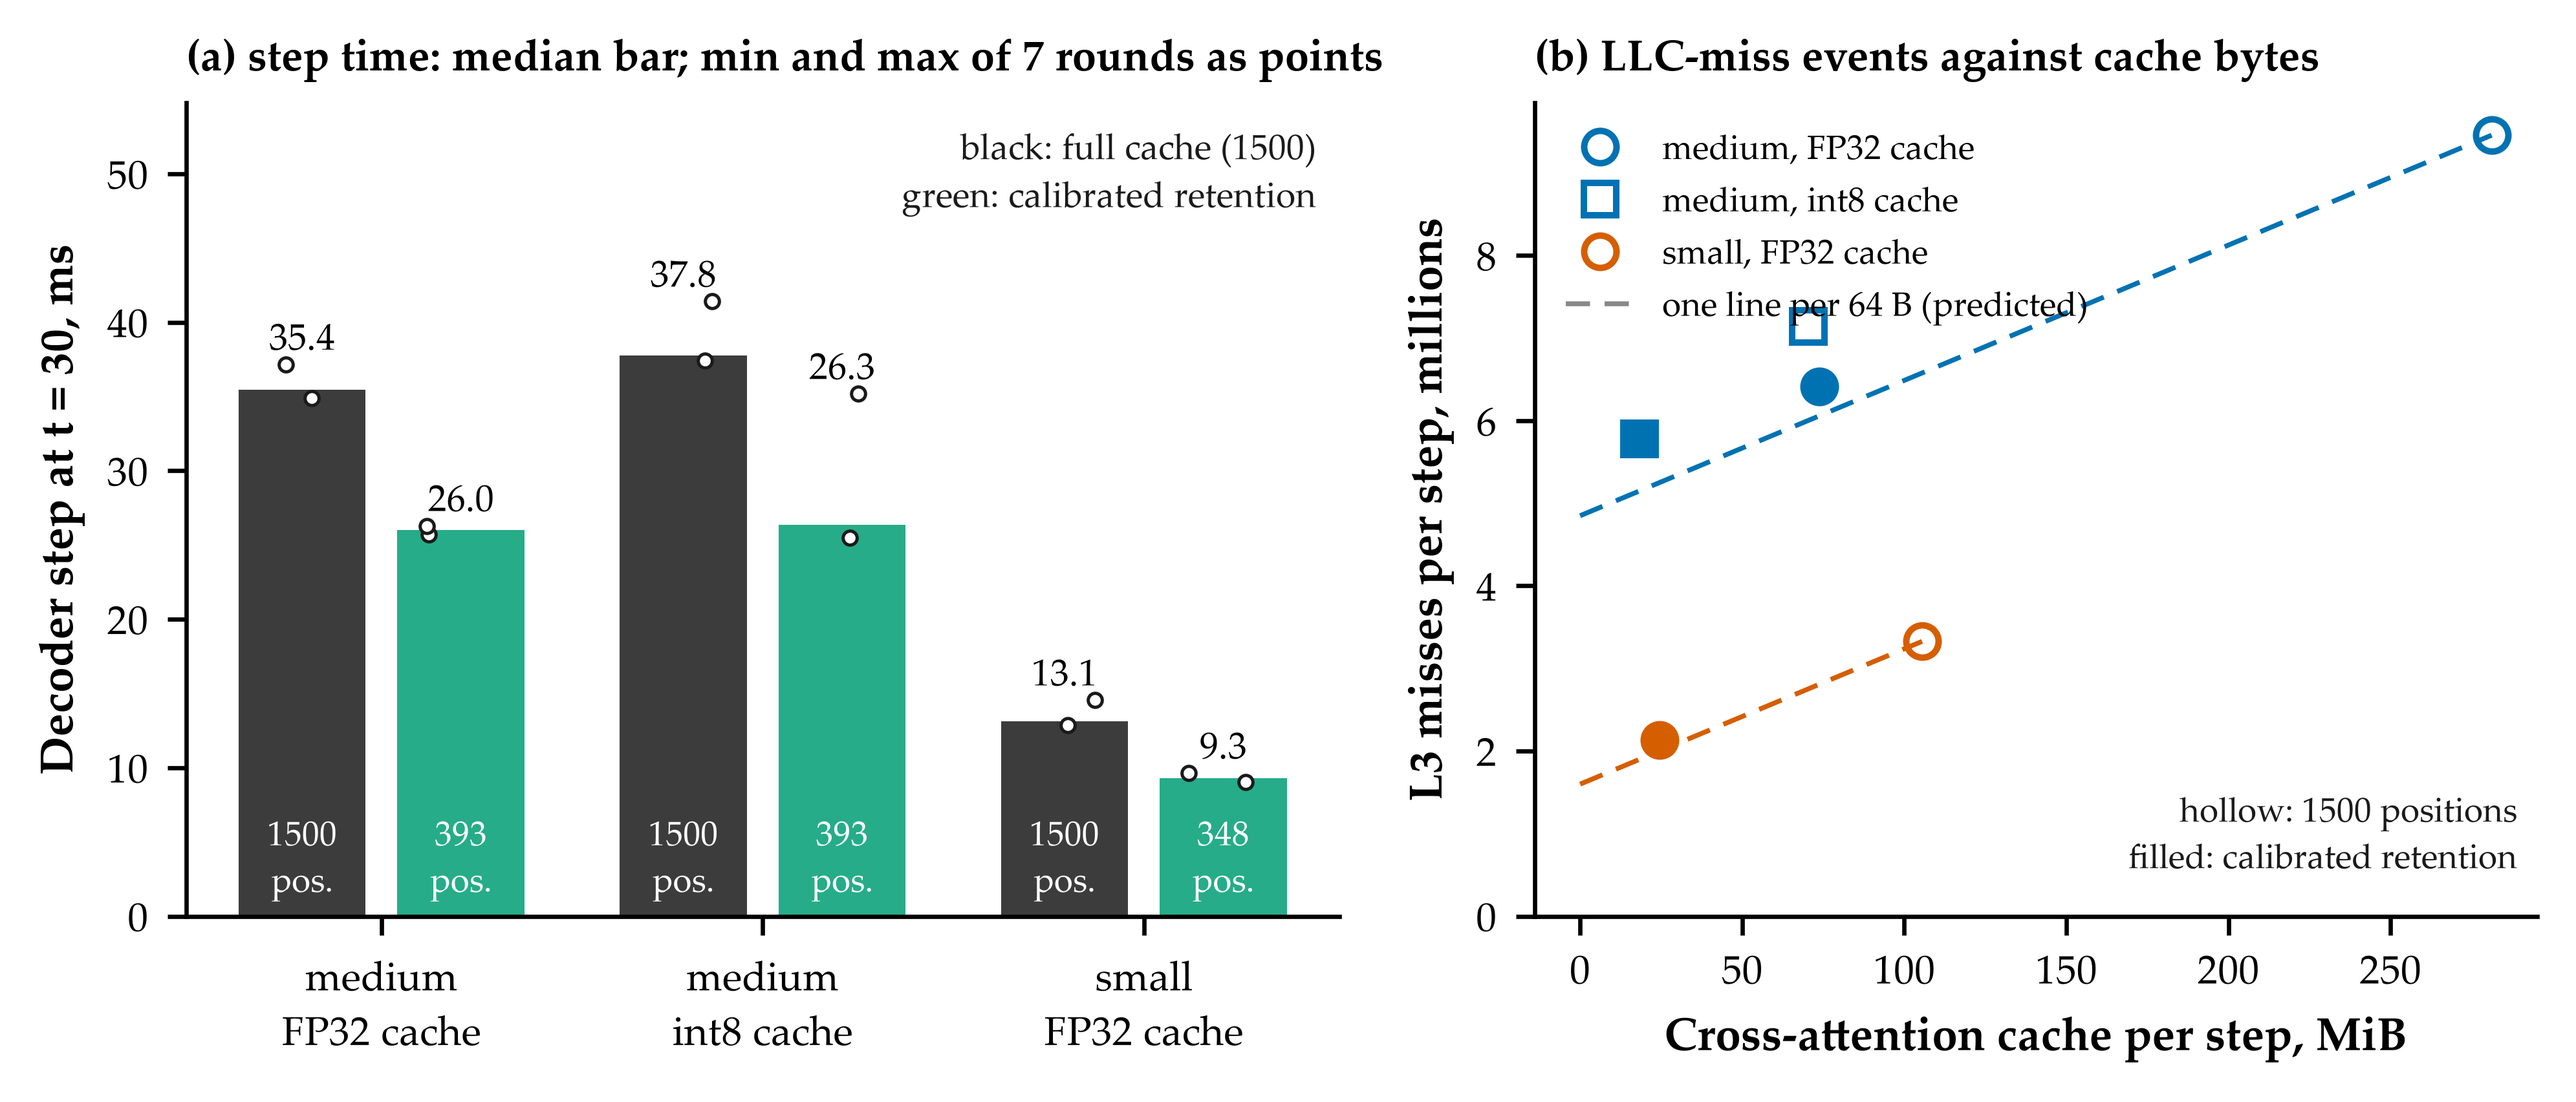
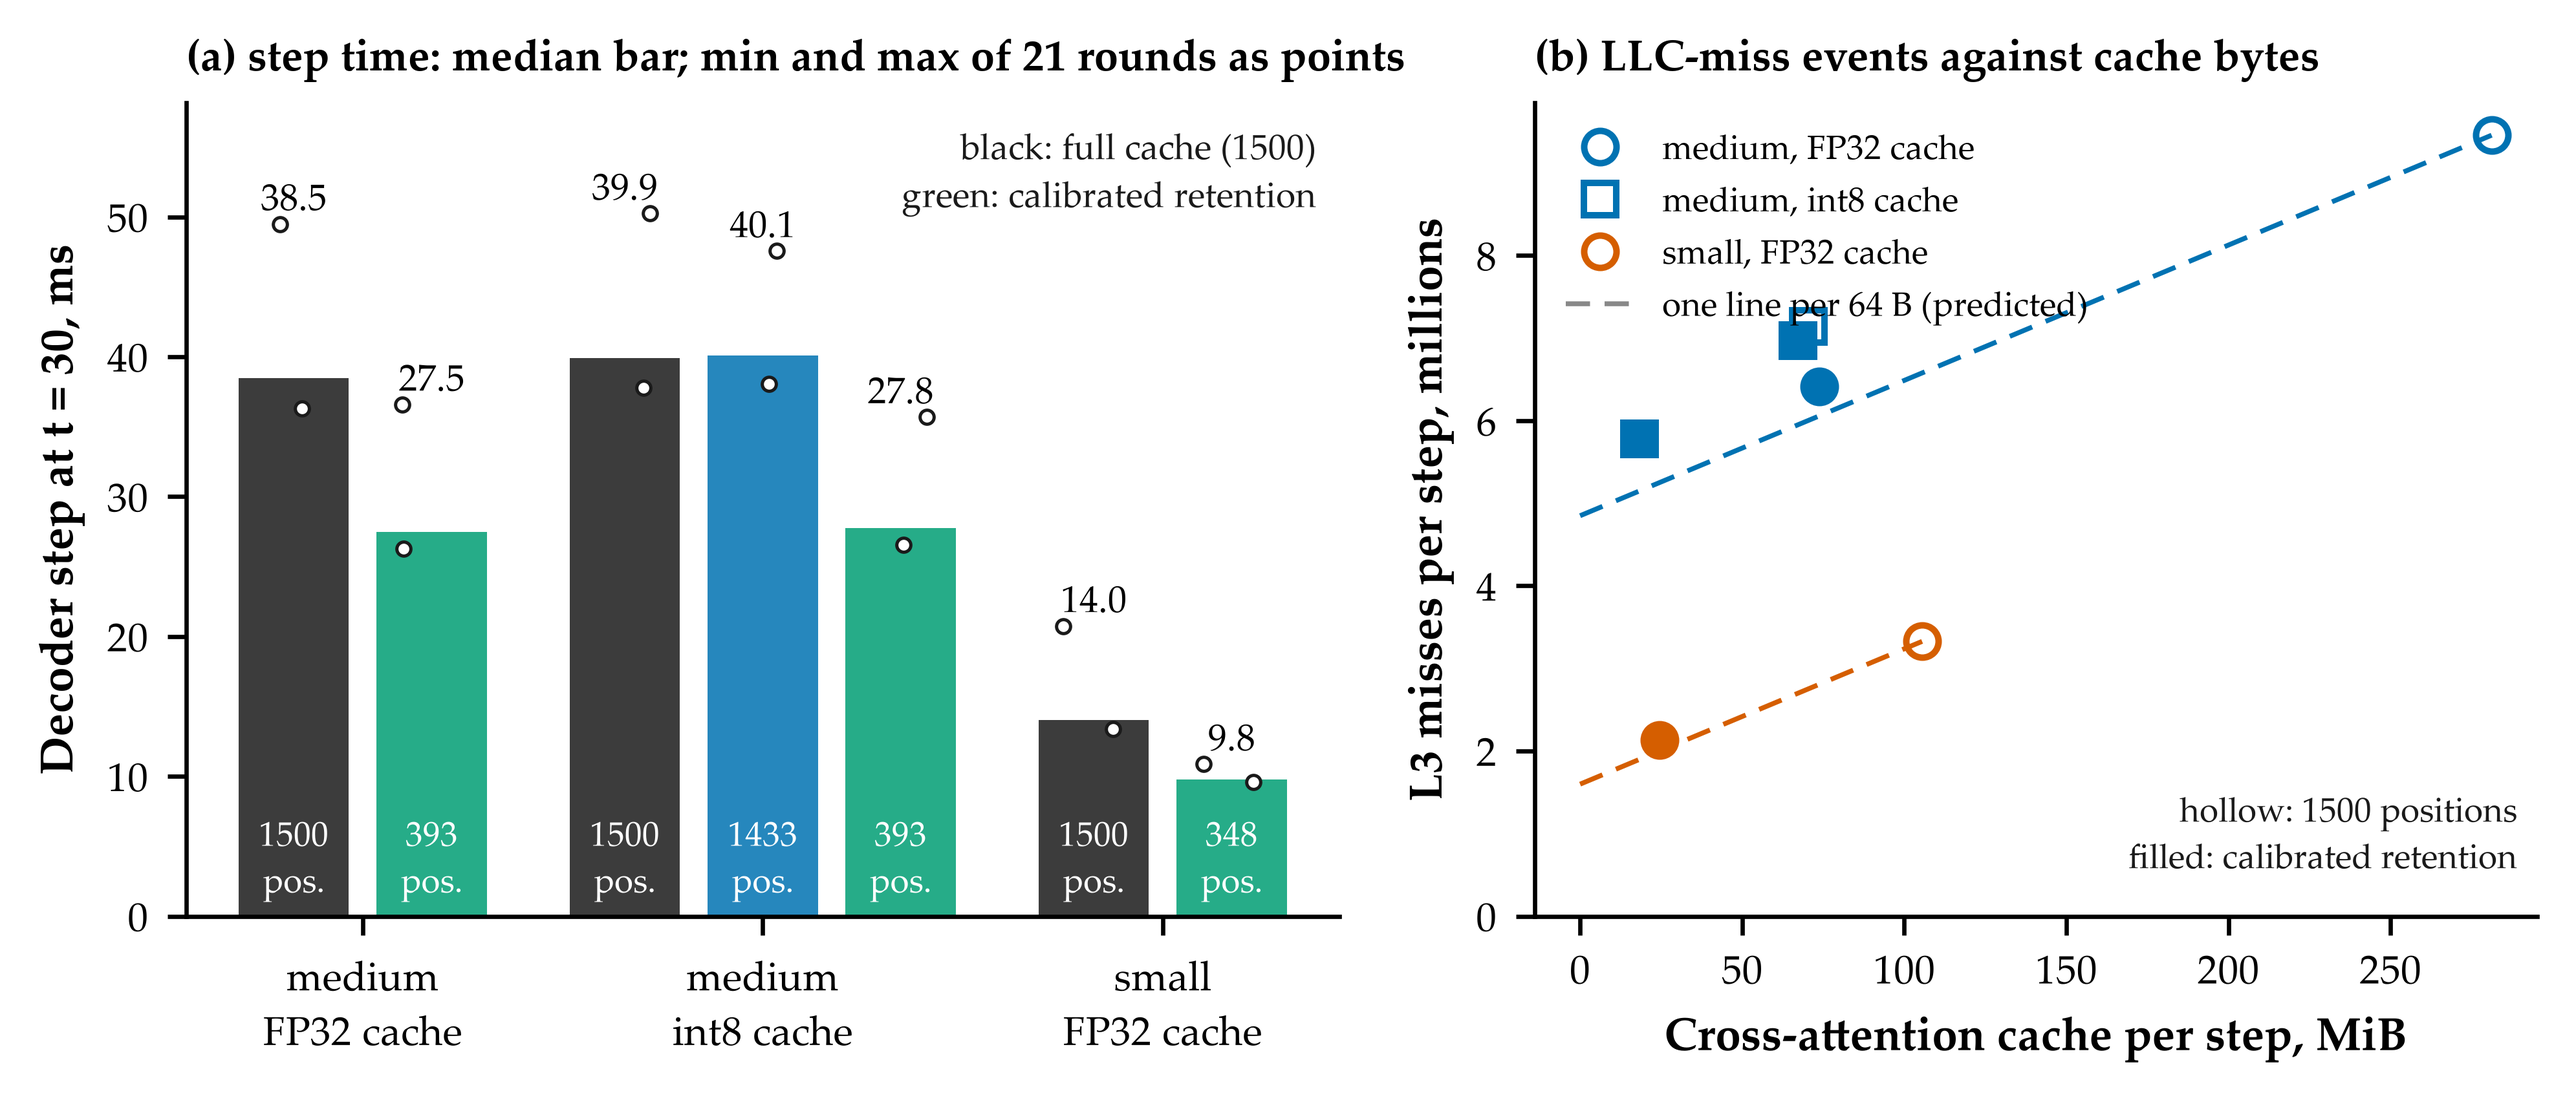
Table 8 re-measured in one interleaved 21-round session (incl. K = 1433); figure 7 redrawn
Claude-Session: https://claude.ai/code/session_019y6nonJhQxgqMhezpzU5Fn

diff --git a/experiments/make_figures_kv.py b/experiments/make_figures_kv.py
@@ -184,13 +184,16 @@ def step_time():
     r = J("results_step_latency_evicted.json")["arms"]
     llc = J("results_llc_miss_step.json")
     mibs = {"medium  fp32 cache, 1500": 281.2, "medium  fp32 cache, 393": 73.7,
-            "medium  int8 cache, 1500": 70.3, "medium  int8 cache, 393": 18.4,
+            "medium  int8 cache, 1500": 70.3, "medium  int8 cache, 393": 18.4, "medium  int8 cache, 1433": 67.2,
             "small   fp32 cache, 1500": 105.5, "small   fp32 cache, 348": 24.5}
-    labels = list(r)
+    order = ["medium  fp32 cache, 1500", "medium  fp32 cache, 393", "medium  int8 cache, 1500",
+             "medium  int8 cache, 1433", "medium  int8 cache, 393", "small   fp32 cache, 1500",
+             "small   fp32 cache, 348"]
+    labels = [k for k in order if k in r]
     med = [r[k]["median_ms"] for k in labels]
-    cols = [DARK if r[k]["positions"] == 1500 else GREEN for k in labels]
+    cols = [DARK if r[k]["positions"] == 1500 else (BLUE if r[k]["positions"] == 1433 else GREEN) for k in labels]
     fig, (ax, ax2) = plt.subplots(1, 2, figsize=(6.69, 2.9), gridspec_kw={"width_ratios": [1.15, 1]})
-    x = np.array([0, 1, 2.4, 3.4, 4.8, 5.8])
+    x = np.array([0, 1, 2.4, 3.4, 4.4, 5.8, 6.8])
     ax.bar(x, med, width=0.8, color=cols, alpha=0.85)
     rng = np.random.default_rng(0)
     for xi, k, m in zip(x, labels, med):
@@ -199,10 +202,10 @@ def step_time():
                 mfc="white", mec=DARK, mew=0.6)
         ax.text(xi, max(runs) + 1.0, f"{m:.1f}", ha="center", fontsize=7)
         ax.text(xi, 0.6, f"{r[k]['positions']}\npos.", ha="center", va="bottom", fontsize=6.4, color="white")
-    ax.set_xticks([0.5, 2.9, 5.3], ["medium\nFP32 cache", "medium\nint8 cache", "small\nFP32 cache"])
+    ax.set_xticks([0.5, 3.4, 6.3], ["medium\nFP32 cache", "medium\nint8 cache", "small\nFP32 cache"])
     ax.set_ylabel("Decoder step at t = 30, ms")
     ax.set_ylim(0, max(med) * 1.45)
-    ax.set_title("(a) step time: median bar; min and max of 7 rounds as points", fontsize=8, loc="left")
+    ax.set_title("(a) step time: median bar; min and max of 21 rounds as points", fontsize=8, loc="left")
     ax.text(0.98, 0.97, "black: full cache (1500)\ngreen: calibrated retention", transform=ax.transAxes,
             ha="right", va="top", fontsize=6.6, color=DARK)
     ax.spines[["top", "right"]].set_visible(False)

diff --git a/experiments/step_latency_evicted.py b/experiments/step_latency_evicted.py
@@ -42,6 +42,7 @@ def build_arms():
         (f"medium  fp32 cache, {k_med}", f"{med}/decoder_with_past_untied_int8.onnx", 16, k_med),
         ("medium  int8 cache, 1500", f"{med}/decoder_with_past_cache_int.onnx", 16, ENC_POS),
         (f"medium  int8 cache, {k_med}", f"{med}/decoder_with_past_cache_int.onnx", 16, k_med),
+        ("medium  int8 cache, 1433", f"{med}/decoder_with_past_cache_int.onnx", 16, 1433),
         ("small   fp32 cache, 1500", f"{sml}/decoder_with_past_untied_int8.onnx", 12, ENC_POS),
         (f"small   fp32 cache, {k_sml}", f"{sml}/decoder_with_past_untied_int8.onnx", 12, k_sml),
     ]
